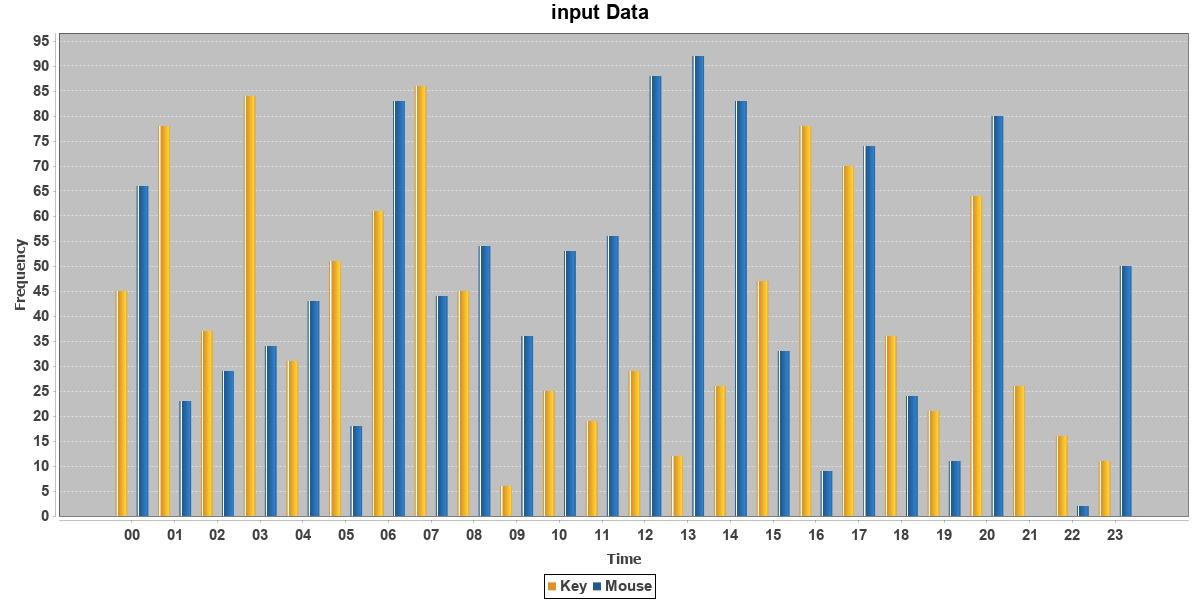
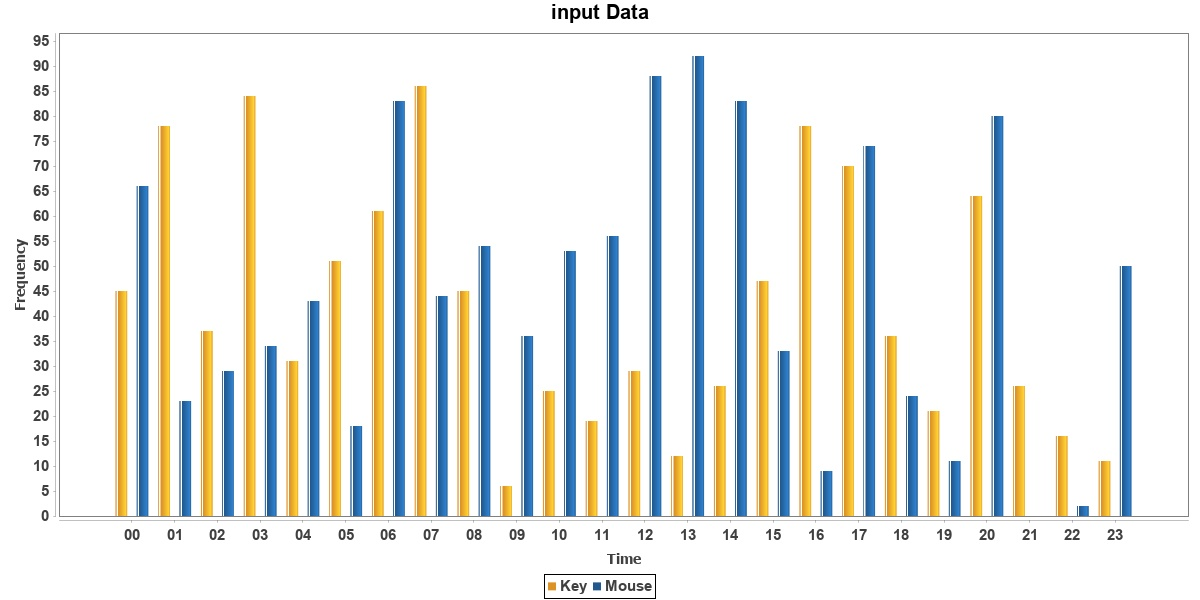
[fix] Main类中的调用适配了wqyl的更新 略微修改了底色调整代码

diff --git a/src/io/github/twt233/keyboardGraph.java b/src/io/github/twt233/keyboardGraph.java
@@ -4,14 +4,12 @@ import com.google.gson.Gson;
 import com.google.gson.reflect.TypeToken;
 import com.zzw.data.Input;
 import org.jfree.chart.ChartFactory;
-import org.jfree.chart.ChartPanel;
 import org.jfree.chart.JFreeChart;
+import org.jfree.chart.plot.CategoryPlot;
 import org.jfree.chart.plot.PlotOrientation;
 import org.jfree.chart.renderer.category.CategoryItemRenderer;
 import org.jfree.data.category.CategoryDataset;
 import org.jfree.data.category.DefaultCategoryDataset;
-import org.jfree.ui.ApplicationFrame;
-import org.jfree.ui.RefineryUtilities;
 
 import java.awt.*;
 import java.io.BufferedReader;
@@ -26,7 +24,7 @@ public class keyboardGraph {
     private CategoryDataset dataSet;
     private JFreeChart chart;
 
-    public keyboardGraph(String filePath) throws IOException { // GRP ADD PUBLIC
+    public keyboardGraph(String filePath) throws IOException {
         StringBuilder json = new StringBuilder();
         BufferedReader buf = new BufferedReader(new FileReader(filePath));
         String temp;
@@ -46,23 +44,15 @@ public class keyboardGraph {
         chart = ChartFactory.createBarChart("input Data", "Time", "Frequency",
                 dataSet, PlotOrientation.VERTICAL, true, true, false);
         CategoryItemRenderer render = chart.getCategoryPlot().getRenderer();
+
+        // GRP ADD
+        CategoryPlot myPlot = (CategoryPlot)chart.getPlot();
+        myPlot.setBackgroundPaint(Color.WHITE);
+        // chart.setBackgroundPaint(new Color(0xffffff));
         render.setSeriesPaint(0, new Color(0xDD9225));
         render.setSeriesPaint(1, new Color(0x21598F));
     }
 
-    public static void main(String[] args) throws IOException {
-        ApplicationFrame af = new ApplicationFrame("Input Statistics");
-
-        keyboardGraph kbg = new keyboardGraph("statistics/data/20190517/input.json");
-
-        /*ChartPanel cp = new ChartPanel(kbg.chart);
-        cp.setPreferredSize(new java.awt.Dimension(800, 600));
-        af.setContentPane(cp);
-        af.pack();
-        RefineryUtilities.centerFrameOnScreen(af);
-        af.setVisible(true);*/
-        // GRP 2019.5.20 11:29am 注释
-    }
 
     public CategoryDataset getDataSet() {
         return dataSet;

diff --git a/src/com/grp/Main.java b/src/com/grp/Main.java
@@ -15,7 +15,7 @@ public class Main
         // 生成Performance的图表并且写出到文件
 
         keyboardGraph keyboardChart = new keyboardGraph("statistics/data/20190517/input.json");
-        keyboardChart.main(null);
+        // keyboardChart.main(null);
         JFreeChart key_chart = keyboardChart.getChart();
         ChartToFile key_chart2file = new ChartToFile(key_chart);
         key_chart2file.toPNG(ChartToFile.Part.INPUT, 1200, 600);
